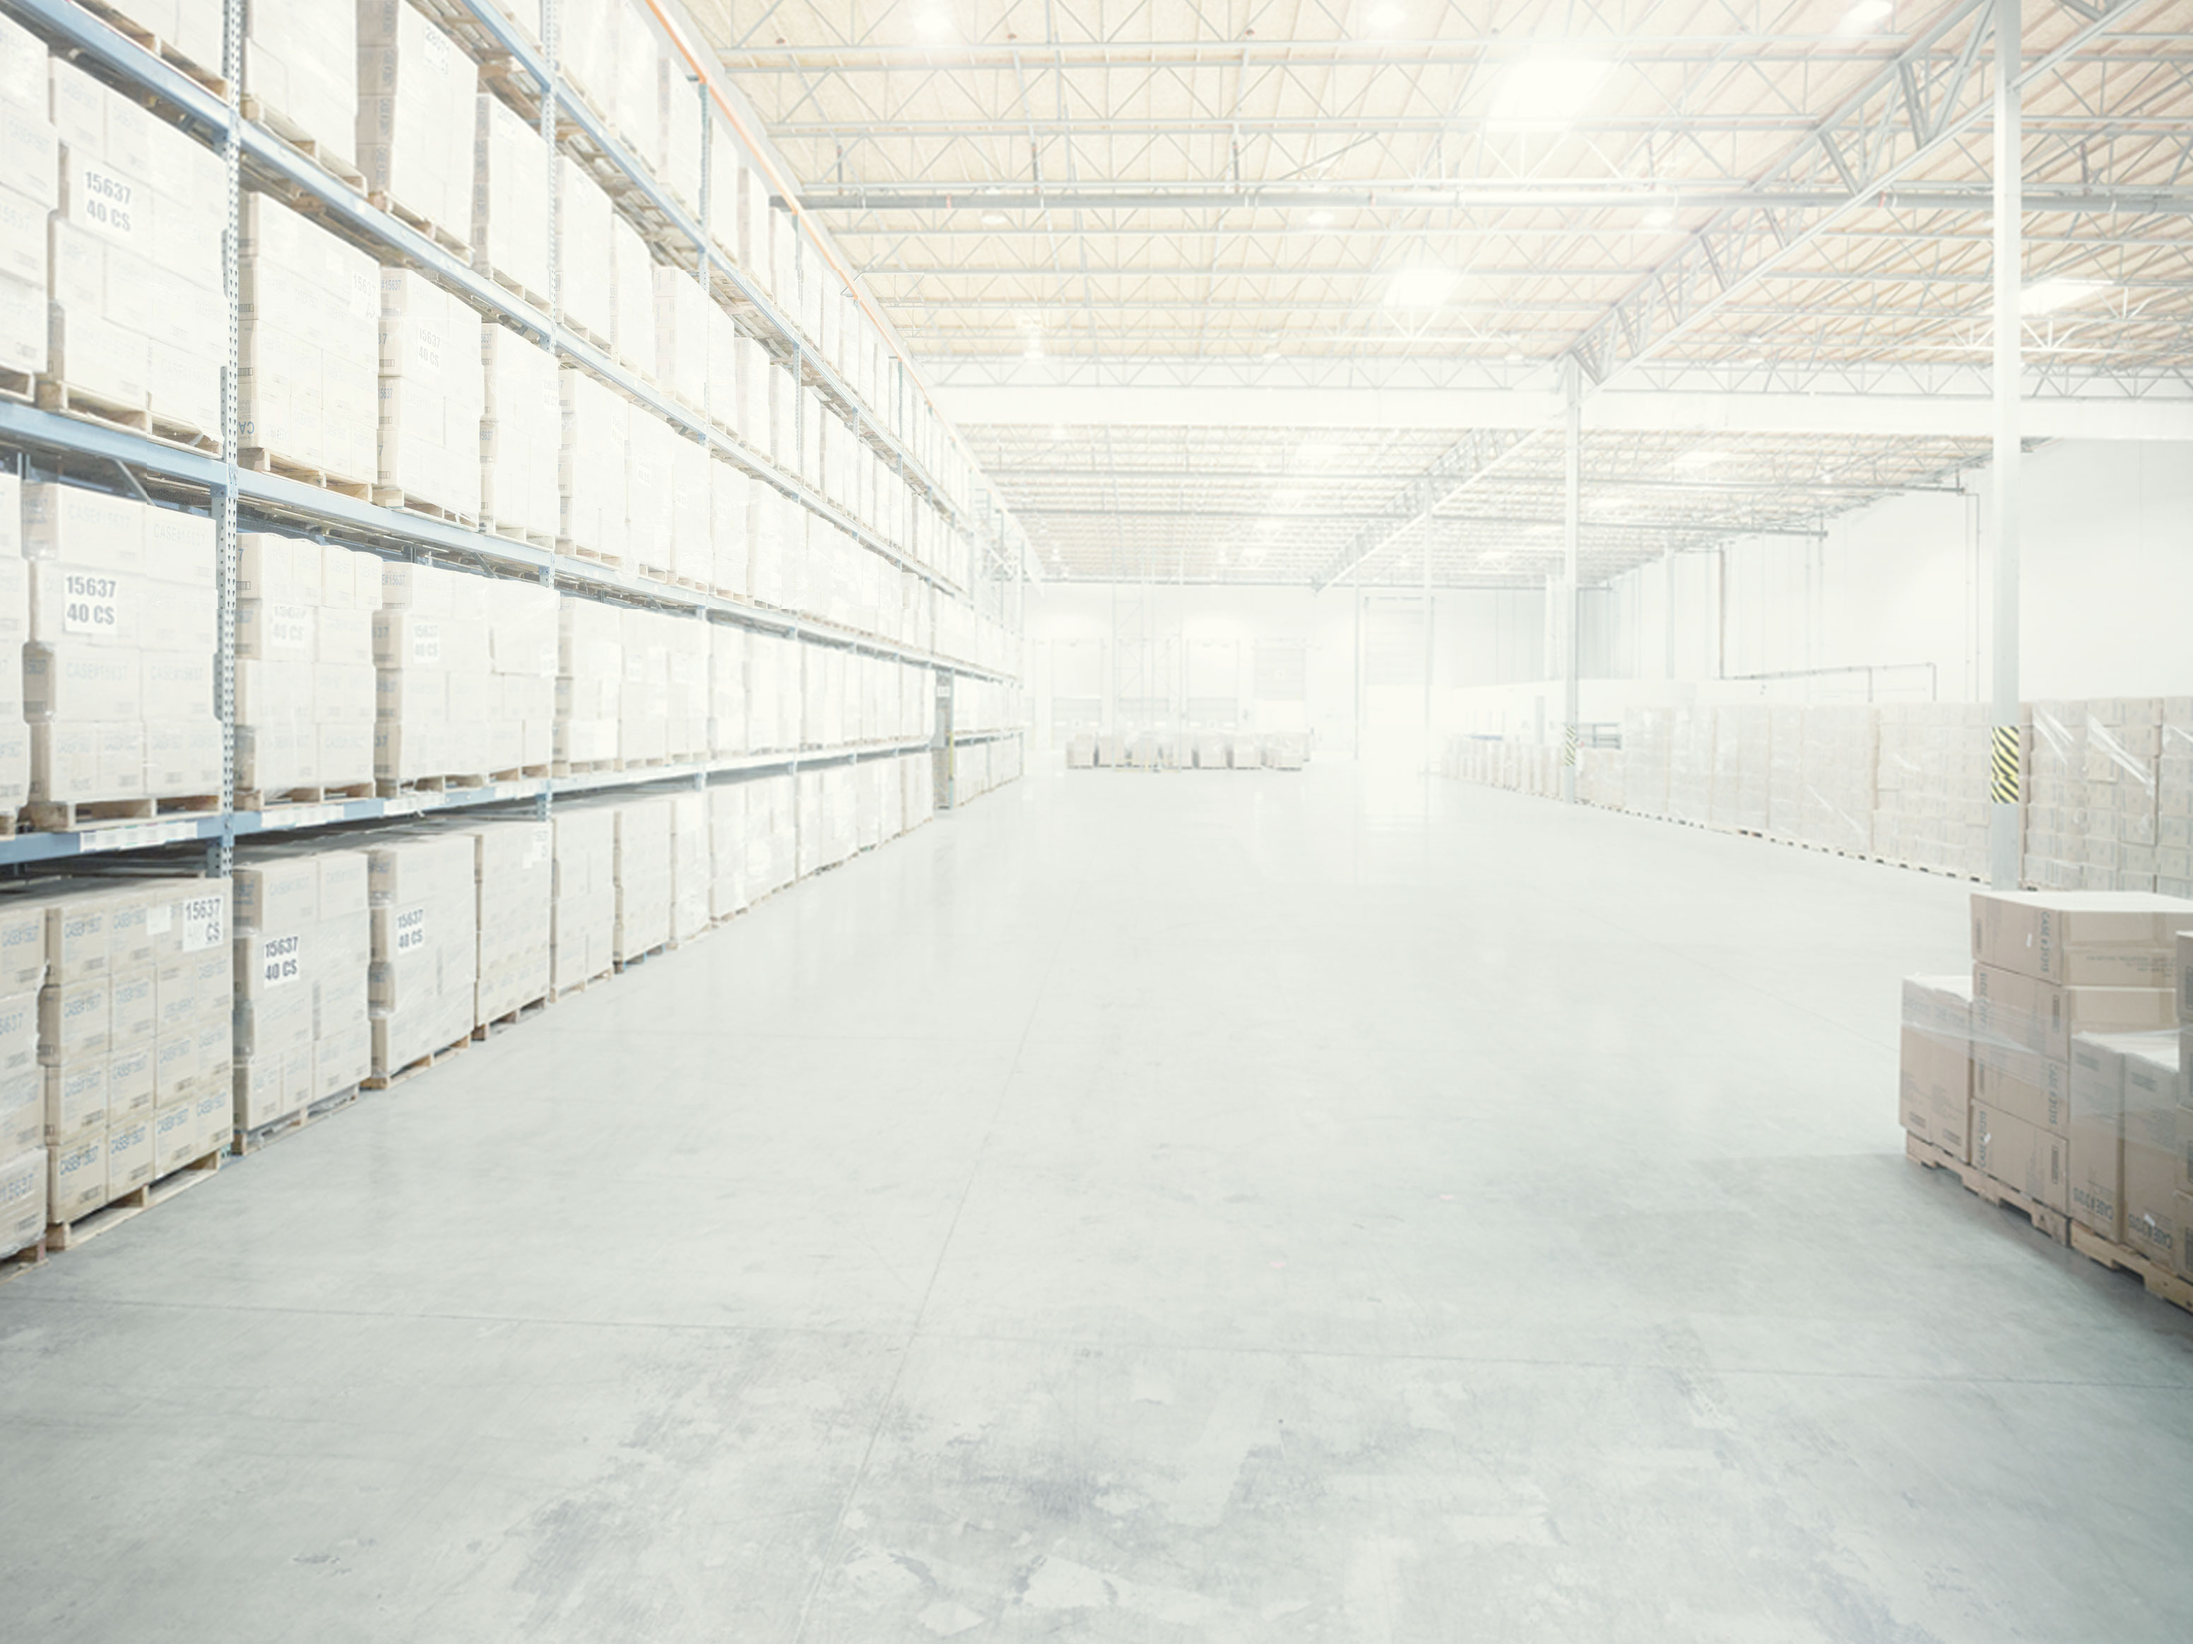
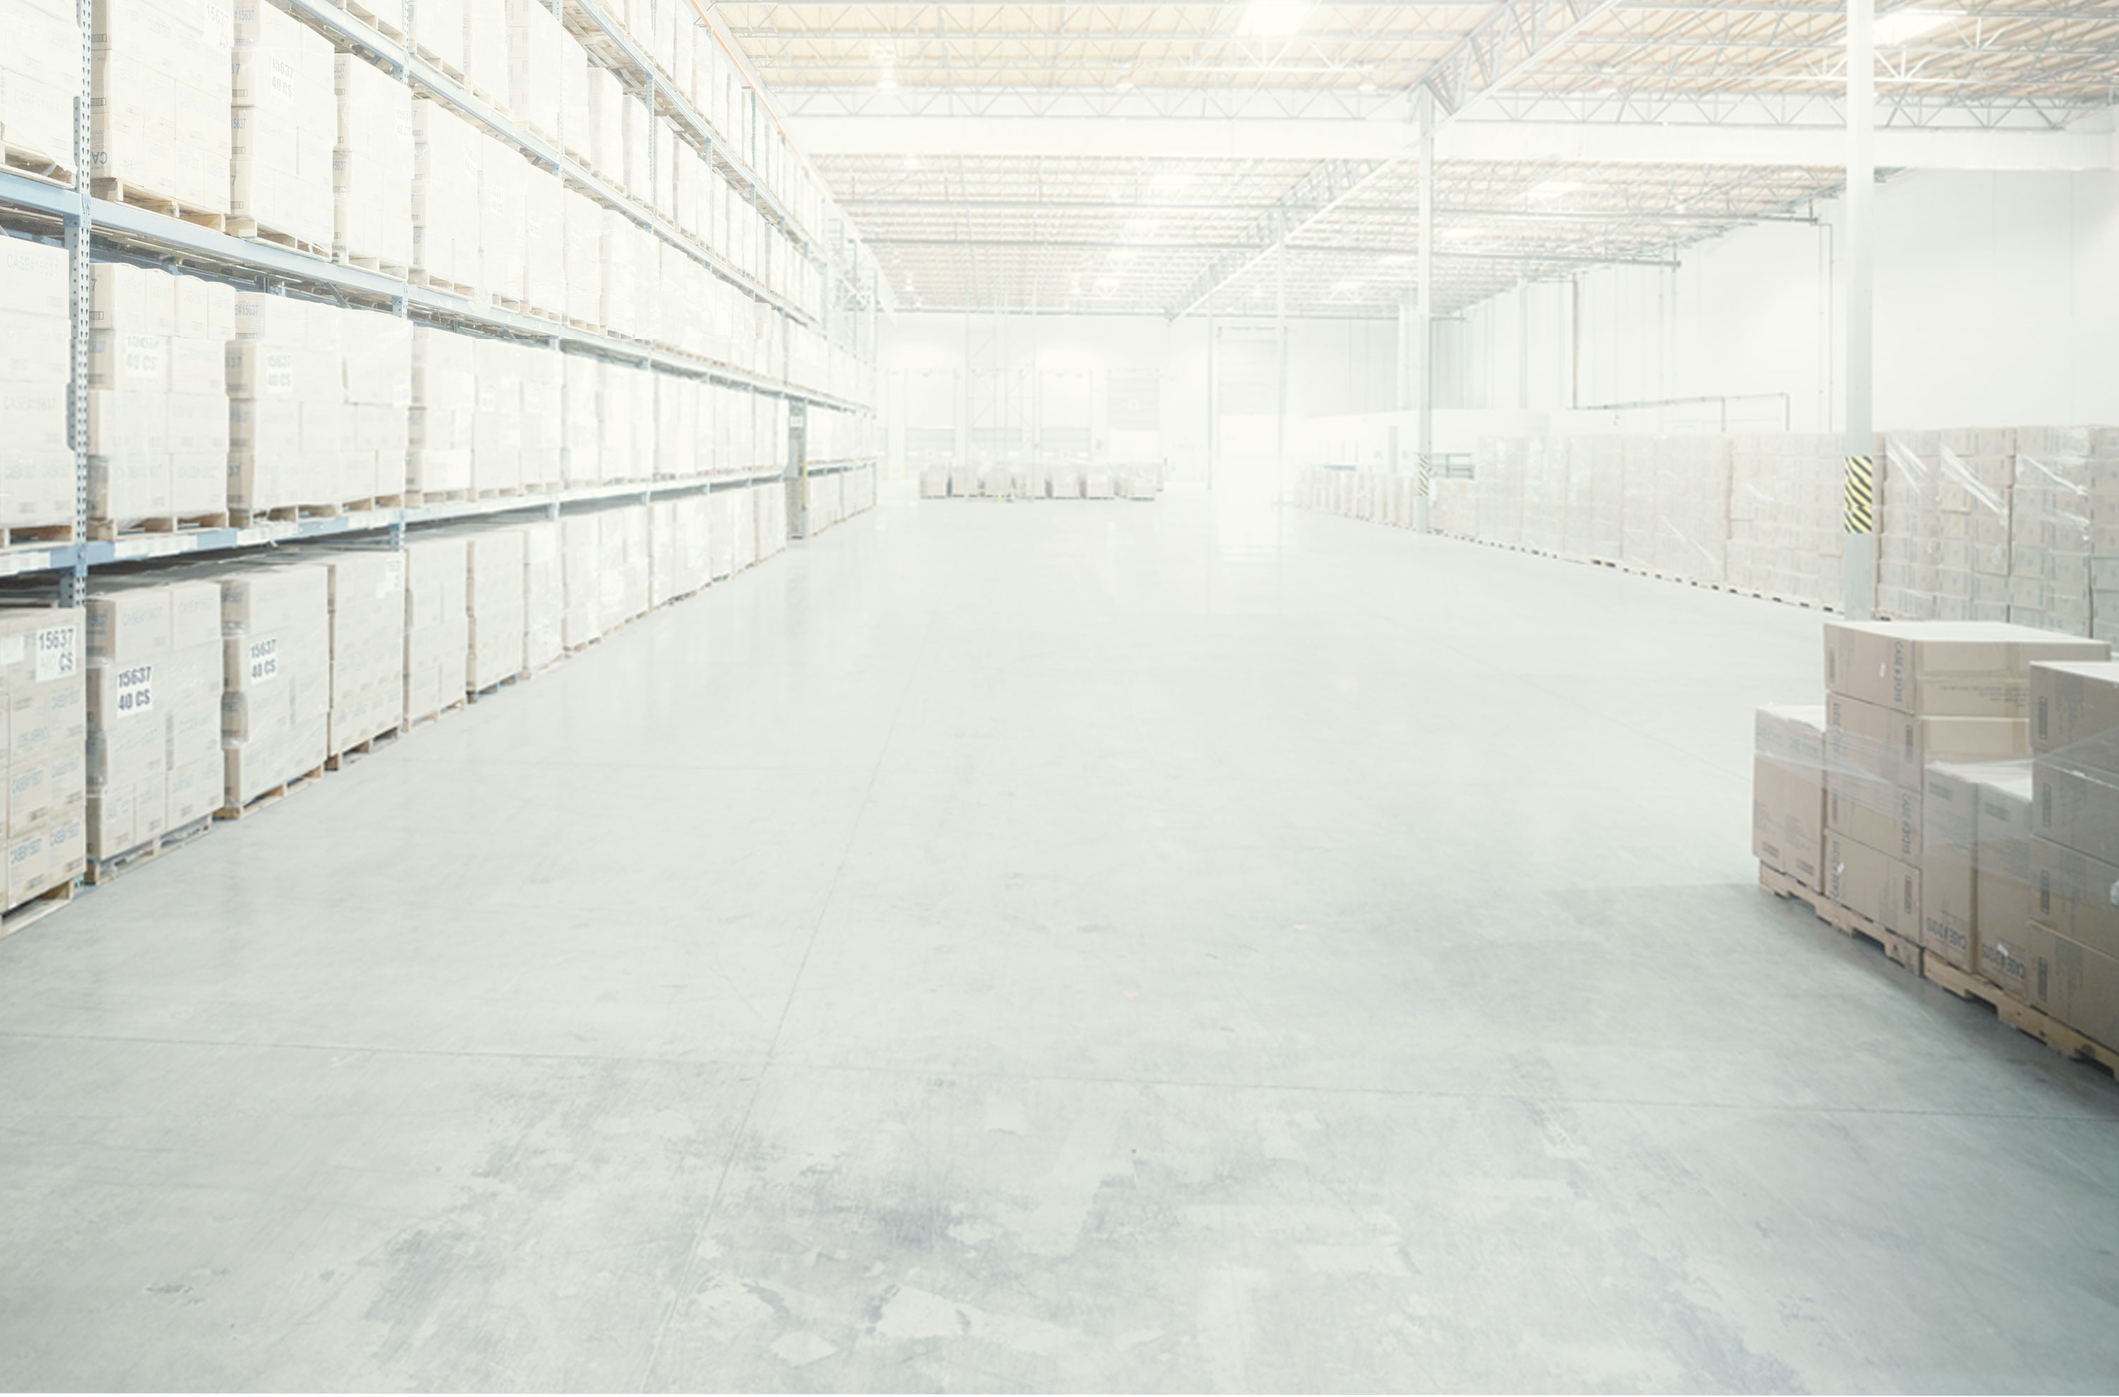
Forklift and Bg come in at same time

diff --git a/13-11-12/desktop/js/TimelineLite.min.js b/13-11-12/desktop/js/TimelineLite.min.js
@@ -1,0 +1,12 @@
+/*!
+ * VERSION: 1.11.0
+ * DATE: 2013-10-21
+ * UPDATES AND DOCS AT: http://www.greensock.com
+ *
+ * @license Copyright (c) 2008-2013, GreenSock. All rights reserved.
+ * This work is subject to the terms at http://www.greensock.com/terms_of_use.html or for
+ * Club GreenSock members, the software agreement that was issued with your membership.
+ * 
+ * @author: Jack Doyle, jack@greensock.com
+ */
+(window._gsQueue||(window._gsQueue=[])).push(function(){"use strict";window._gsDefine("TimelineLite",["core.Animation","core.SimpleTimeline","TweenLite"],function(t,e,i){var s=function(t){e.call(this,t),this._labels={},this.autoRemoveChildren=this.vars.autoRemoveChildren===!0,this.smoothChildTiming=this.vars.smoothChildTiming===!0,this._sortChildren=!0,this._onUpdate=this.vars.onUpdate;var i,s,r=this.vars;for(s in r)i=r[s],a(i)&&-1!==i.join("").indexOf("{self}")&&(r[s]=this._swapSelfInParams(i));a(r.tweens)&&this.add(r.tweens,0,r.align,r.stagger)},r=1e-10,n=i._internals.isSelector,a=i._internals.isArray,o=[],h=function(t){var e,i={};for(e in t)i[e]=t[e];return i},l=function(t,e,i,s){t._timeline.pause(t._startTime),e&&e.apply(s||t._timeline,i||o)},_=o.slice,u=s.prototype=new e;return s.version="1.11.0",u.constructor=s,u.kill()._gc=!1,u.to=function(t,e,s,r){return e?this.add(new i(t,e,s),r):this.set(t,s,r)},u.from=function(t,e,s,r){return this.add(i.from(t,e,s),r)},u.fromTo=function(t,e,s,r,n){return e?this.add(i.fromTo(t,e,s,r),n):this.set(t,r,n)},u.staggerTo=function(t,e,r,a,o,l,u,p){var f,c=new s({onComplete:l,onCompleteParams:u,onCompleteScope:p});for("string"==typeof t&&(t=i.selector(t)||t),n(t)&&(t=_.call(t,0)),a=a||0,f=0;t.length>f;f++)r.startAt&&(r.startAt=h(r.startAt)),c.to(t[f],e,h(r),f*a);return this.add(c,o)},u.staggerFrom=function(t,e,i,s,r,n,a,o){return i.immediateRender=0!=i.immediateRender,i.runBackwards=!0,this.staggerTo(t,e,i,s,r,n,a,o)},u.staggerFromTo=function(t,e,i,s,r,n,a,o,h){return s.startAt=i,s.immediateRender=0!=s.immediateRender&&0!=i.immediateRender,this.staggerTo(t,e,s,r,n,a,o,h)},u.call=function(t,e,s,r){return this.add(i.delayedCall(0,t,e,s),r)},u.set=function(t,e,s){return s=this._parseTimeOrLabel(s,0,!0),null==e.immediateRender&&(e.immediateRender=s===this._time&&!this._paused),this.add(new i(t,0,e),s)},s.exportRoot=function(t,e){t=t||{},null==t.smoothChildTiming&&(t.smoothChildTiming=!0);var r,n,a=new s(t),o=a._timeline;for(null==e&&(e=!0),o._remove(a,!0),a._startTime=0,a._rawPrevTime=a._time=a._totalTime=o._time,r=o._first;r;)n=r._next,e&&r instanceof i&&r.target===r.vars.onComplete||a.add(r,r._startTime-r._delay),r=n;return o.add(a,0),a},u.add=function(r,n,o,h){var l,_,u,p,f,c;if("number"!=typeof n&&(n=this._parseTimeOrLabel(n,0,!0,r)),!(r instanceof t)){if(r instanceof Array||r&&r.push&&a(r)){for(o=o||"normal",h=h||0,l=n,_=r.length,u=0;_>u;u++)a(p=r[u])&&(p=new s({tweens:p})),this.add(p,l),"string"!=typeof p&&"function"!=typeof p&&("sequence"===o?l=p._startTime+p.totalDuration()/p._timeScale:"start"===o&&(p._startTime-=p.delay())),l+=h;return this._uncache(!0)}if("string"==typeof r)return this.addLabel(r,n);if("function"!=typeof r)throw"Cannot add "+r+" into the timeline; it is not a tween, timeline, function, or string.";r=i.delayedCall(0,r)}if(e.prototype.add.call(this,r,n),this._gc&&!this._paused&&this._duration<this.duration())for(f=this,c=f.rawTime()>r._startTime;f._gc&&f._timeline;)f._timeline.smoothChildTiming&&c?f.totalTime(f._totalTime,!0):f._enabled(!0,!1),f=f._timeline;return this},u.remove=function(e){if(e instanceof t)return this._remove(e,!1);if(e instanceof Array||e&&e.push&&a(e)){for(var i=e.length;--i>-1;)this.remove(e[i]);return this}return"string"==typeof e?this.removeLabel(e):this.kill(null,e)},u._remove=function(t,i){e.prototype._remove.call(this,t,i);var s=this._last;return s?this._time>s._startTime+s._totalDuration/s._timeScale&&(this._time=this.duration(),this._totalTime=this._totalDuration):this._time=this._totalTime=0,this},u.append=function(t,e){return this.add(t,this._parseTimeOrLabel(null,e,!0,t))},u.insert=u.insertMultiple=function(t,e,i,s){return this.add(t,e||0,i,s)},u.appendMultiple=function(t,e,i,s){return this.add(t,this._parseTimeOrLabel(null,e,!0,t),i,s)},u.addLabel=function(t,e){return this._labels[t]=this._parseTimeOrLabel(e),this},u.addPause=function(t,e,i,s){return this.call(l,["{self}",e,i,s],this,t)},u.removeLabel=function(t){return delete this._labels[t],this},u.getLabelTime=function(t){return null!=this._labels[t]?this._labels[t]:-1},u._parseTimeOrLabel=function(e,i,s,r){var n;if(r instanceof t&&r.timeline===this)this.remove(r);else if(r&&(r instanceof Array||r.push&&a(r)))for(n=r.length;--n>-1;)r[n]instanceof t&&r[n].timeline===this&&this.remove(r[n]);if("string"==typeof i)return this._parseTimeOrLabel(i,s&&"number"==typeof e&&null==this._labels[i]?e-this.duration():0,s);if(i=i||0,"string"!=typeof e||!isNaN(e)&&null==this._labels[e])null==e&&(e=this.duration());else{if(n=e.indexOf("="),-1===n)return null==this._labels[e]?s?this._labels[e]=this.duration()+i:i:this._labels[e]+i;i=parseInt(e.charAt(n-1)+"1",10)*Number(e.substr(n+1)),e=n>1?this._parseTimeOrLabel(e.substr(0,n-1),0,s):this.duration()}return Number(e)+i},u.seek=function(t,e){return this.totalTime("number"==typeof t?t:this._parseTimeOrLabel(t),e!==!1)},u.stop=function(){return this.paused(!0)},u.gotoAndPlay=function(t,e){return this.play(t,e)},u.gotoAndStop=function(t,e){return this.pause(t,e)},u.render=function(t,e,i){this._gc&&this._enabled(!0,!1);var s,n,a,h,l,_=this._dirty?this.totalDuration():this._totalDuration,u=this._time,p=this._startTime,f=this._timeScale,c=this._paused;if(t>=_?(this._totalTime=this._time=_,this._reversed||this._hasPausedChild()||(n=!0,h="onComplete",0===this._duration&&(0===t||0>this._rawPrevTime||this._rawPrevTime===r)&&this._rawPrevTime!==t&&this._first&&(l=!0,this._rawPrevTime>r&&(h="onReverseComplete"))),this._rawPrevTime=this._duration||!e||t?t:r,t=_+1e-6):1e-7>t?(this._totalTime=this._time=0,(0!==u||0===this._duration&&(this._rawPrevTime>r||0>t&&this._rawPrevTime>=0))&&(h="onReverseComplete",n=this._reversed),0>t?(this._active=!1,0===this._duration&&this._rawPrevTime>=0&&this._first&&(l=!0),this._rawPrevTime=t):(this._rawPrevTime=this._duration||!e||t?t:r,t=0,this._initted||(l=!0))):this._totalTime=this._time=this._rawPrevTime=t,this._time!==u&&this._first||i||l){if(this._initted||(this._initted=!0),this._active||!this._paused&&this._time!==u&&t>0&&(this._active=!0),0===u&&this.vars.onStart&&0!==this._time&&(e||this.vars.onStart.apply(this.vars.onStartScope||this,this.vars.onStartParams||o)),this._time>=u)for(s=this._first;s&&(a=s._next,!this._paused||c);)(s._active||s._startTime<=this._time&&!s._paused&&!s._gc)&&(s._reversed?s.render((s._dirty?s.totalDuration():s._totalDuration)-(t-s._startTime)*s._timeScale,e,i):s.render((t-s._startTime)*s._timeScale,e,i)),s=a;else for(s=this._last;s&&(a=s._prev,!this._paused||c);)(s._active||u>=s._startTime&&!s._paused&&!s._gc)&&(s._reversed?s.render((s._dirty?s.totalDuration():s._totalDuration)-(t-s._startTime)*s._timeScale,e,i):s.render((t-s._startTime)*s._timeScale,e,i)),s=a;this._onUpdate&&(e||this._onUpdate.apply(this.vars.onUpdateScope||this,this.vars.onUpdateParams||o)),h&&(this._gc||(p===this._startTime||f!==this._timeScale)&&(0===this._time||_>=this.totalDuration())&&(n&&(this._timeline.autoRemoveChildren&&this._enabled(!1,!1),this._active=!1),!e&&this.vars[h]&&this.vars[h].apply(this.vars[h+"Scope"]||this,this.vars[h+"Params"]||o)))}},u._hasPausedChild=function(){for(var t=this._first;t;){if(t._paused||t instanceof s&&t._hasPausedChild())return!0;t=t._next}return!1},u.getChildren=function(t,e,s,r){r=r||-9999999999;for(var n=[],a=this._first,o=0;a;)r>a._startTime||(a instanceof i?e!==!1&&(n[o++]=a):(s!==!1&&(n[o++]=a),t!==!1&&(n=n.concat(a.getChildren(!0,e,s)),o=n.length))),a=a._next;return n},u.getTweensOf=function(t,e){for(var s=i.getTweensOf(t),r=s.length,n=[],a=0;--r>-1;)(s[r].timeline===this||e&&this._contains(s[r]))&&(n[a++]=s[r]);return n},u._contains=function(t){for(var e=t.timeline;e;){if(e===this)return!0;e=e.timeline}return!1},u.shiftChildren=function(t,e,i){i=i||0;for(var s,r=this._first,n=this._labels;r;)r._startTime>=i&&(r._startTime+=t),r=r._next;if(e)for(s in n)n[s]>=i&&(n[s]+=t);return this._uncache(!0)},u._kill=function(t,e){if(!t&&!e)return this._enabled(!1,!1);for(var i=e?this.getTweensOf(e):this.getChildren(!0,!0,!1),s=i.length,r=!1;--s>-1;)i[s]._kill(t,e)&&(r=!0);return r},u.clear=function(t){var e=this.getChildren(!1,!0,!0),i=e.length;for(this._time=this._totalTime=0;--i>-1;)e[i]._enabled(!1,!1);return t!==!1&&(this._labels={}),this._uncache(!0)},u.invalidate=function(){for(var t=this._first;t;)t.invalidate(),t=t._next;return this},u._enabled=function(t,i){if(t===this._gc)for(var s=this._first;s;)s._enabled(t,!0),s=s._next;return e.prototype._enabled.call(this,t,i)},u.duration=function(t){return arguments.length?(0!==this.duration()&&0!==t&&this.timeScale(this._duration/t),this):(this._dirty&&this.totalDuration(),this._duration)},u.totalDuration=function(t){if(!arguments.length){if(this._dirty){for(var e,i,s=0,r=this._last,n=999999999999;r;)e=r._prev,r._dirty&&r.totalDuration(),r._startTime>n&&this._sortChildren&&!r._paused?this.add(r,r._startTime-r._delay):n=r._startTime,0>r._startTime&&!r._paused&&(s-=r._startTime,this._timeline.smoothChildTiming&&(this._startTime+=r._startTime/this._timeScale),this.shiftChildren(-r._startTime,!1,-9999999999),n=0),i=r._startTime+r._totalDuration/r._timeScale,i>s&&(s=i),r=e;this._duration=this._totalDuration=s,this._dirty=!1}return this._totalDuration}return 0!==this.totalDuration()&&0!==t&&this.timeScale(this._totalDuration/t),this},u.usesFrames=function(){for(var e=this._timeline;e._timeline;)e=e._timeline;return e===t._rootFramesTimeline},u.rawTime=function(){return this._paused?this._totalTime:(this._timeline.rawTime()-this._startTime)*this._timeScale},s},!0)}),window._gsDefine&&window._gsQueue.pop()();

diff --git a/13-11-12/desktop/index.html b/13-11-12/desktop/index.html
@@ -17,9 +17,8 @@
 		
 		<div class="frames-container">
 			<div class="bg-container no-flicker">
-				<!-- <img src="img/f1-pic.jpg" alt="" id="bgImg" width="3104"> -->
-				<div id="bgImg"></div>
-				<!-- <img src="img/fork-lift.png" alt="" width="386" class="fork-lift"/>			 -->
+				<img src="img/f1-pic.jpg" alt="" id="bgImg" width="3104">
+				<img src="img/fork-lift.png" alt="" width="386" class="fork-lift"/>			
 			</div>
 
 			<div class="frames f1 no-flicker">
@@ -45,6 +44,7 @@
 	<script type="text/javascript" src="js/TweenLite.min.js"></script>
 	<script type="text/javascript" src="js/plugins/CSSPlugin.min.js"></script>
 	<script type="text/javascript" src="js/easing/EasePack.min.js"></script>
+	<script type="text/javascript" src="js/TimelineLite.min.js"> </script>
 
 	<script type="text/javascript">
 		var times = [3500, 3800, 2000];
@@ -58,16 +58,16 @@
 					//bgContainer.addClass('anim');
 					//bg.addClass('anim');
 					//bg = document.getElementById('bgImg');
-					TweenLite.to(forkLift, 0.25, {css:{ bottom:0, right:"19%", top:65, opacity: 1 } , delay: 0.5, width:"35.0909090909%"});
-					TweenLite.to(bg, 1, {left:0, top:"-223px", width:1070, ease: Power2.easeInOut, transformOrigin:"left top"});
+					var timeline = new TimelineLite();
 					
+					timeline.to(bg, 1,  { left:0, top:"-100px", width:1070, ease: Power2.easeInOut }, 0);
+					timeline.to( forkLift,1, {   top:65, right:"19%", left: "41.6363636364%" , opacity: 1, ease: Power2.easeInOut, width:"35.0909090909%"} , 0);
+					timeline.play();
 					
 					timeouts[1] = setTimeout(function() {
 						frame2.fadeIn(400);
 					}, 1500);
 				});
-			
-				// TweenLite.to(bg, 1, { scaleX:0.345, scaleY: 0.345, left:"9%", top:"-2887px"});
 			
 			},
 			function(){

diff --git a/13-11-12/desktop/css/main.css b/13-11-12/desktop/css/main.css
@@ -29,8 +29,8 @@
 #qzad { min-width: 720px; max-width: 1100px; height: 480px; position: relative; top: 0; left: 0; border: 1px solid #094f9f; -webkit-box-sizing: border-box; -moz-box-sizing: border-box; box-sizing: border-box; }
 
 .bg-container { position: relative; top: 0; left: 0; right: 0; bottom: 0; }
-.bg-container .fork-lift { position: absolute; bottom: 137px; width: 35.0909090909%; opacity: 0; top: 480px; min-width: 355px; left: 41.6363636364%; }
-.bg-container #bgImg { position: absolute; display: block; width: 282.181818182%; top: -384px; left: -258px; }
+.bg-container .fork-lift { position: absolute; width: 35.0909090909%; opacity: 0; width: 1179px; min-width: 355px; left: 1081px; top: 418px; }
+.bg-container #bgImg { position: absolute; display: block; width: 263.272727273%; top: 0; left: 0; }
 
 .frames-container { position: absolute; top: 20px; left: 20px; right: 20px; bottom: 20px; overflow: hidden; -webkit-transition: all 1.5s ease-in-out; -moz-transition: all 1.5s ease-in-out; -ms-transition: all 1.5s ease-in-out; -o-transition: all 1.5s ease-in-out; transition: all 1.5s ease-in-out; }
 .frames-container a { display: block; text-decoration: none; }

diff --git a/13-11-12/desktop/scss/main.scss b/13-11-12/desktop/scss/main.scss
@@ -61,14 +61,15 @@ $zurich-blue: #094f9f;
 		.fork-lift{
 			position:absolute;
 			
-			bottom: 137px;
+			//bottom: 347px;
 			width: 35.0909090909%;
 			opacity: 0;
-			top: 480px;
+			width: 1179px;
 			min-width: 355px;
 			//max-width: 386px;
-			
-			 left: 41.6363636364%;
+			//left: 41.6363636364%;
+			left:1081px;
+			top:418px;
 			// width: 35.0909090909%;
 			// max-width: 386px;
 		}
@@ -76,9 +77,9 @@ $zurich-blue: #094f9f;
 			position:absolute;
 			display: block;
 			//height: 2327px;
-			width: 282.181818182%; //3104px;
-			top:-384px;
-			left:-258px;
+			width: 263.272727273%; //3104px;
+			top:0;
+			left:0;
 			//min-width: 1070px;
 			
 		}
